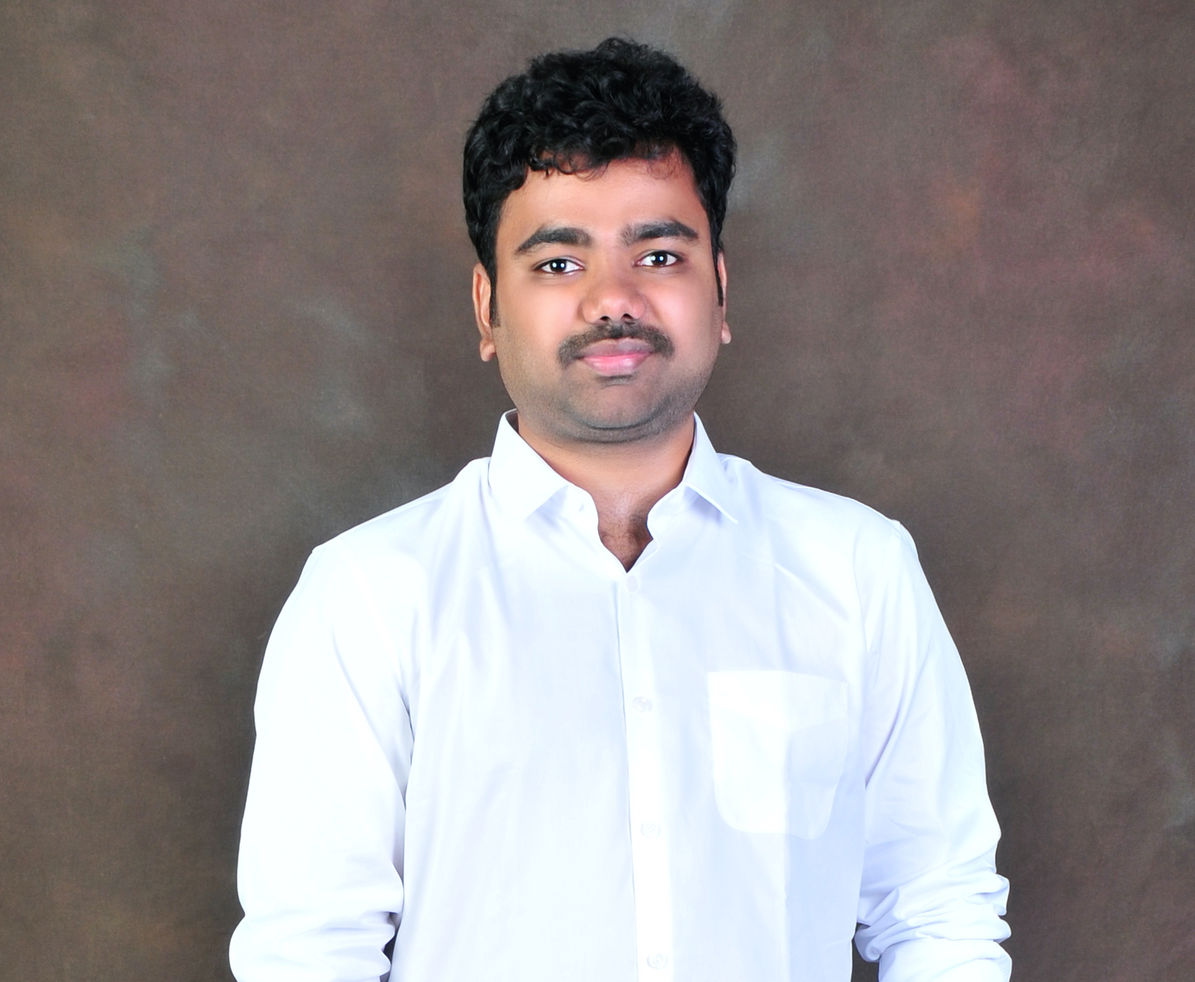
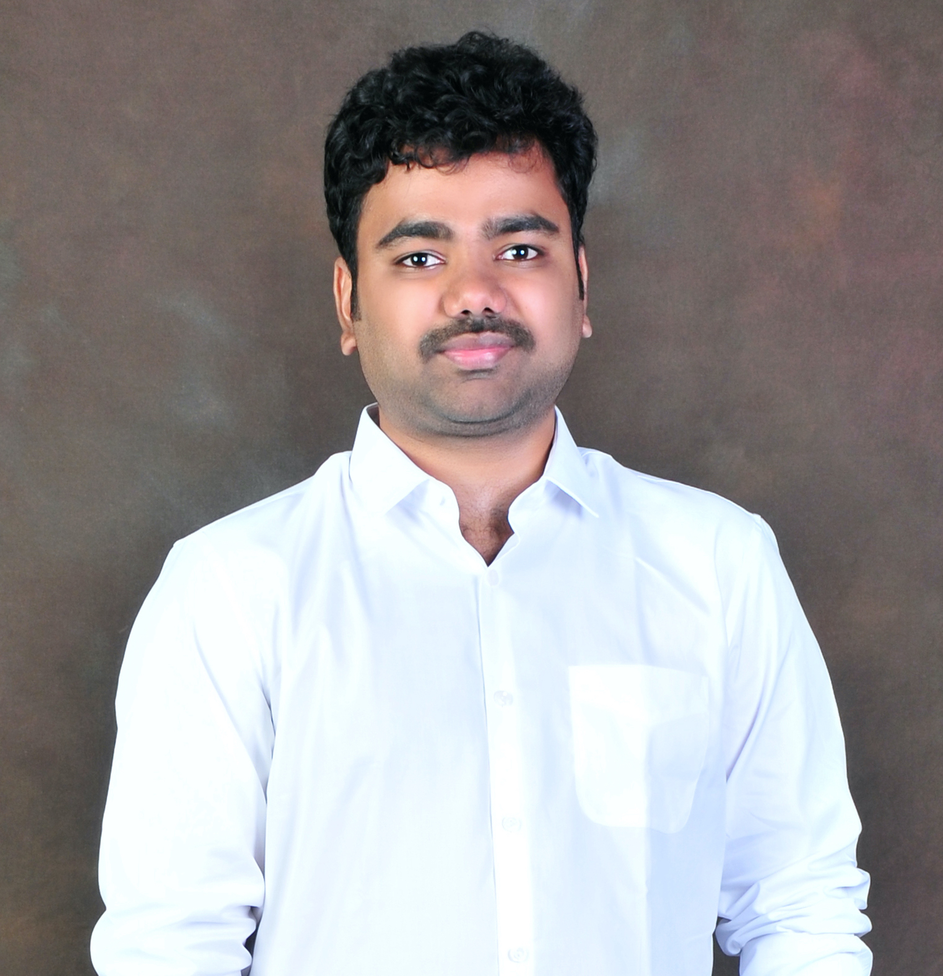
new commit

diff --git a/Welcome.md b/Welcome.md
@@ -5,6 +5,6 @@ nav_order: 1
 permalink: /
 ---
 
-<img align="right" src="01.jpg" width="230" height="200" left-padding="200px">
+<img align="right" src="01.jpg" width="200" padding= "25px 50px 75px 100px">
 
 Lorem Ipsum is simply dummy text of the printing and typesetting industry. Lorem Ipsum has been the industry's standard dummy text ever since the 1500s, when an unknown printer took a galley of type and scrambled it to make a type specimen book. It has survived not only five centuries, but also the leap into electronic typesetting, remaining essentially unchanged. It was popularised in the 1960s with the release of Letraset sheets containing Lorem Ipsum passages, and more recently with desktop publishing software like Aldus PageMaker including versions of Lorem Ipsum. Lorem Ipsum is simply dummy text of the printing and typesetting industry. Lorem Ipsum has been the industry's standard dummy text ever since the 1500s, when an unknown printer took a galley of type and scrambled it to make a type specimen book. It has survived not only five centuries, but also the leap into electronic typesetting, remaining essentially unchanged. It was popularised in the 1960s with the release of Letraset sheets containing Lorem Ipsum passages, and more recently with desktop publishing software like Aldus PageMaker including versions of Lorem Ipsum.
